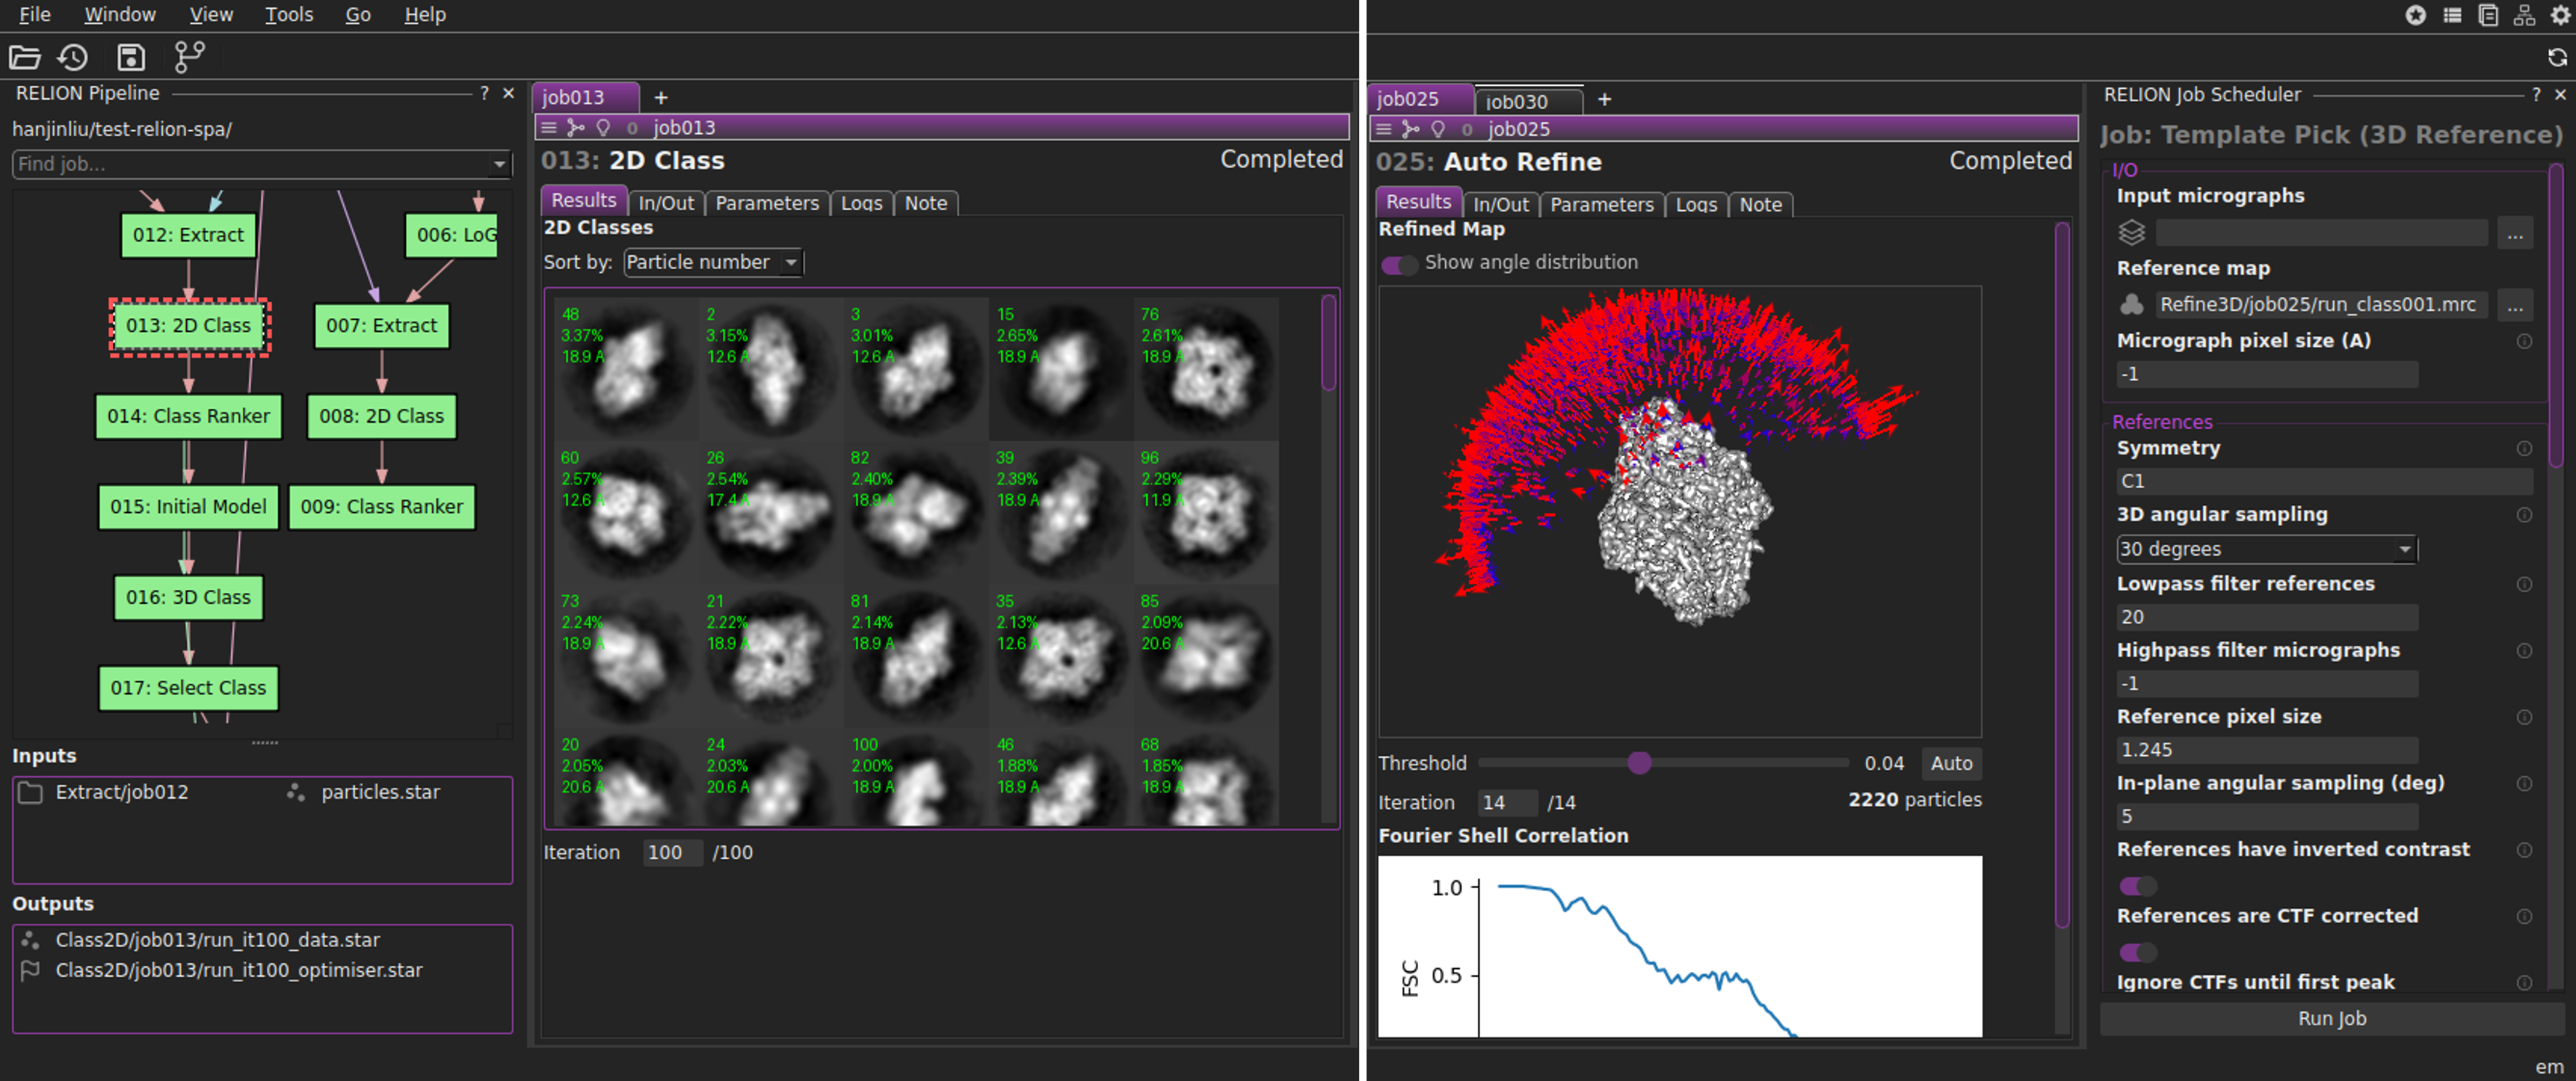
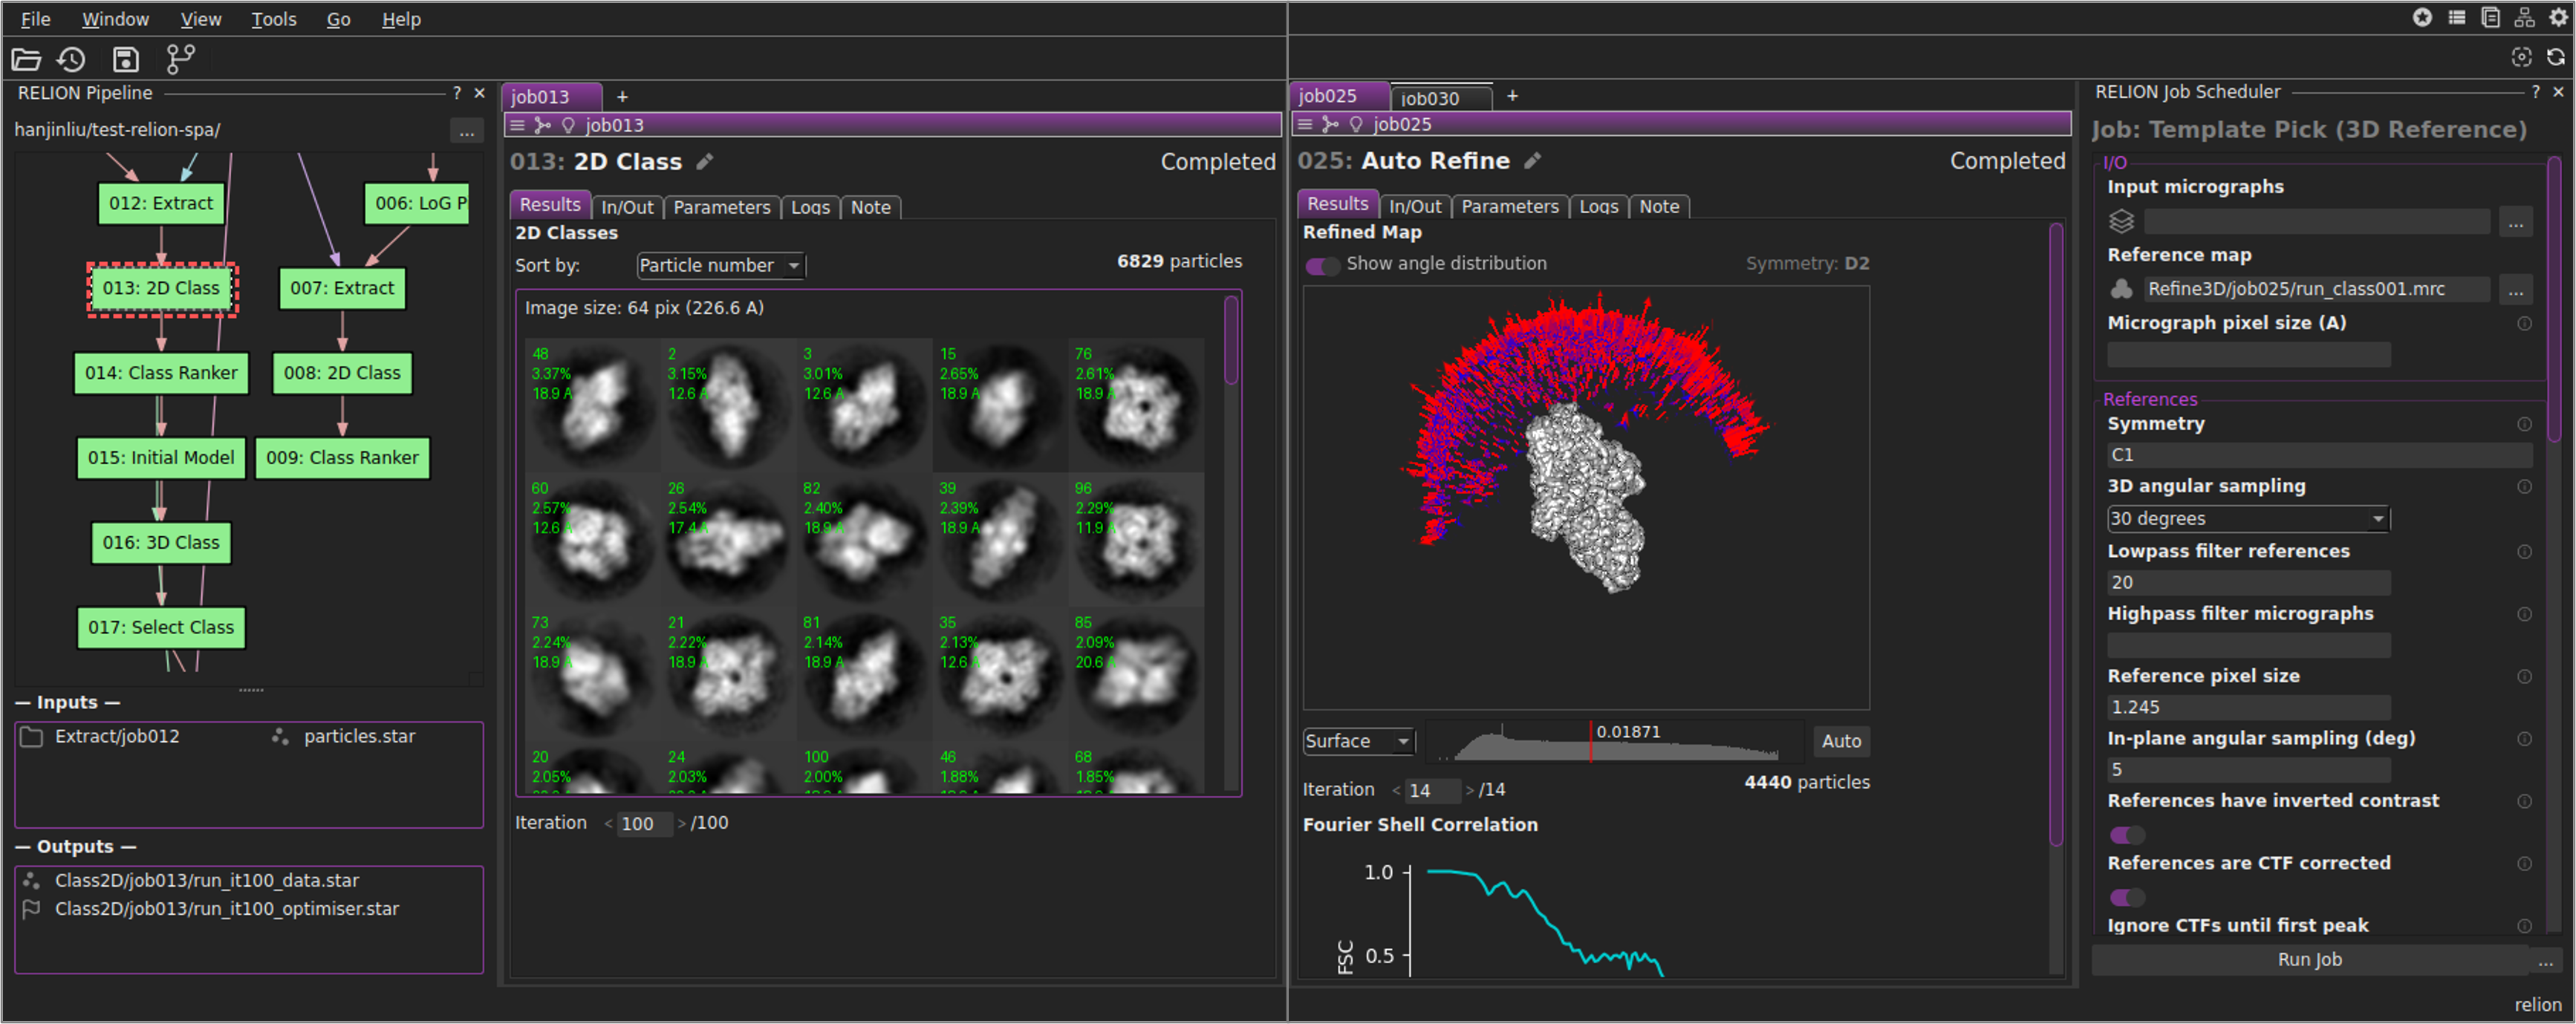
Deployed 08c76e4 with MkDocs version: 1.6.1

diff --git a/external_jobs/index.html b/external_jobs/index.html
@@ -79,6 +79,11 @@
     <label class="md-overlay" for="__drawer"></label>
     <div data-md-component="skip">
       
+        
+        <a href="#external-jobs" class="md-skip">
+          Skip to content
+        </a>
+      
     </div>
     <div data-md-component="announce">
       
@@ -491,6 +496,8 @@
   
   
   
+    
+  
   
 </nav>
                   </div>
@@ -510,9 +517,12 @@
   
 
 
-  <h1>Index</h1>
-
-
+<h1 id="external-jobs">External Jobs</h1>
+<p><code>himena-relion</code> provides convenient built-in external jobs and allows users to create their own jobs.</p>
+<ul>
+<li><a href="builtin/">Built-in External Jobs</a></li>
+<li><a href="dev/">Create External Jobs</a></li>
+</ul>
 
 
 

diff --git a/getting_started/index.html b/getting_started/index.html
@@ -745,8 +745,9 @@ You can click any of the import jobs to start processing your data.</p>
 <p><img alt="" loading="lazy" src="../images/01_flowchart_startup.png" width="400px" /></p>
 <h2 id="job-flowchart">Job Flowchart</h2>
 <p>If your RELION project has jobs, the job flowchart will automatically created.</p>
-<p><img alt="" loading="lazy" src="../images/01_flowchart_example.png" width="300px" /></p>
-<p>In this flowchart, you can double-click nodes to open the job window.</p>
+<p><img alt="" loading="lazy" src="../images/01_flowchart_example.png" width="700px" /></p>
+<p>In this flowchart, you can double-click nodes to open the job window, <span class="keys"><kbd class="key-control">Ctrl</kbd><span>+</span><kbd class="key-f">F</kbd></span> to open
+the search palette, and many other actions in the right-click context menu.</p>
 <h2 id="job-window">Job Window</h2>
 <p>A job window displays the content of the job directory. For most of the cases, the first
 tab will show the most informative representation of the job outputs, such as the

diff --git a/external_jobs/builtin/index.html b/external_jobs/builtin/index.html
@@ -789,6 +789,7 @@ the resulting map will be similar to the shifted map.</p>
 <li>Re-center particles to the subunits after symmetry expansion.</li>
 </ul>
 <h2 id="tomography-specific-jobs">Tomography-specific Jobs</h2>
+<p><img alt="" loading="lazy" src="../../images/02_external_tomo.png" /></p>
 <h4 id="find-beads-3d">Find Beads 3D</h4>
 <p>This job uses the <code>findbeads3d</code> program from <a href="https://bio3d.colorado.edu/imod/">IMOD</a> to
 locate fiducial gold beads in tomograms. The output files are IMOD .mod files. You can